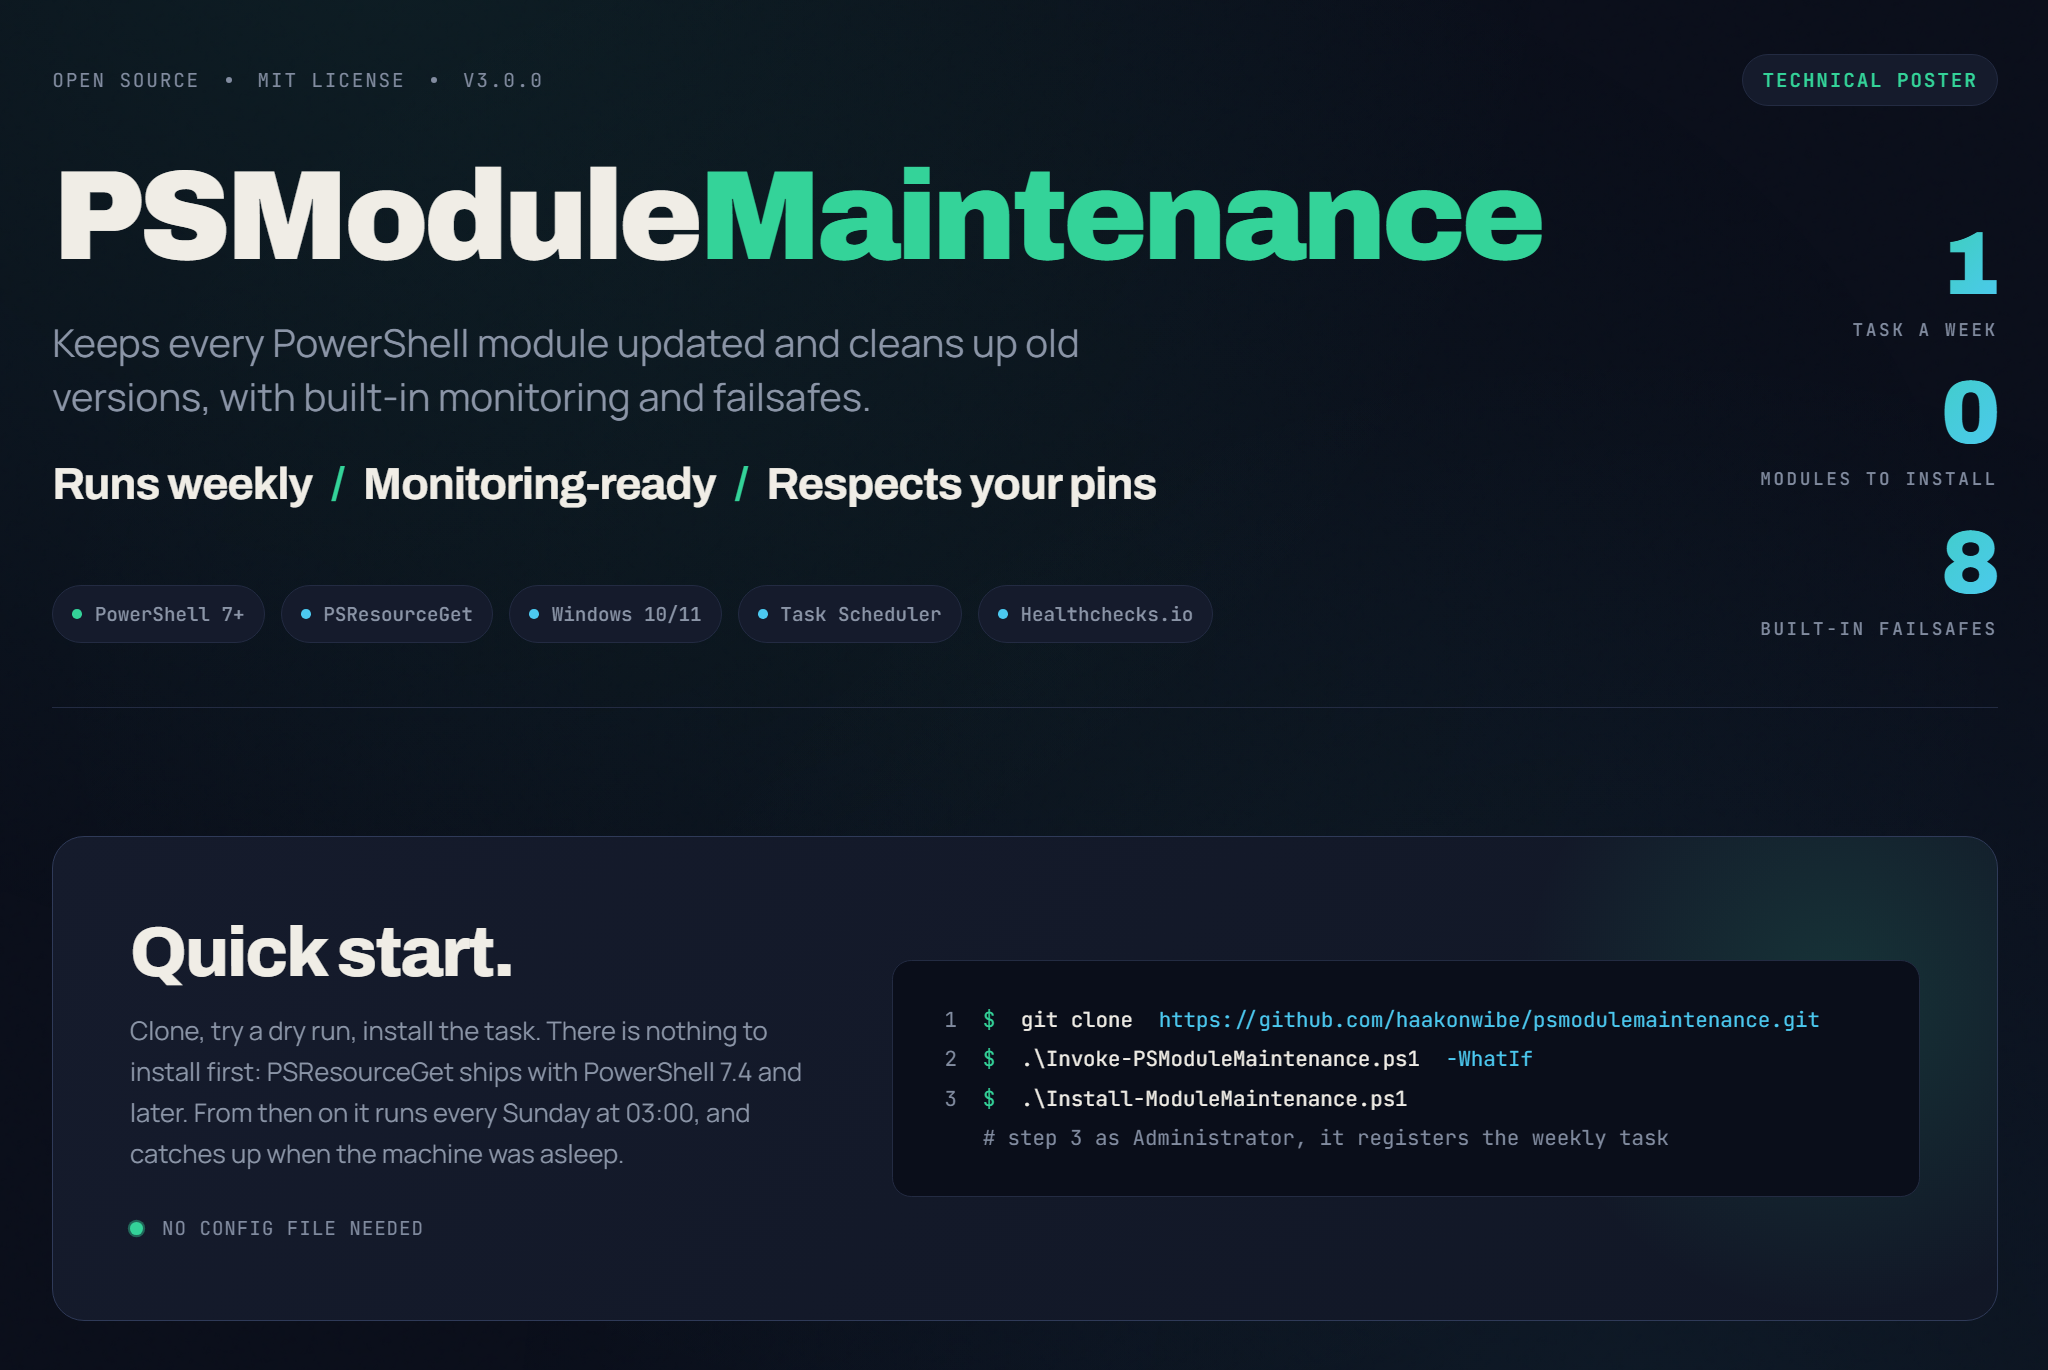
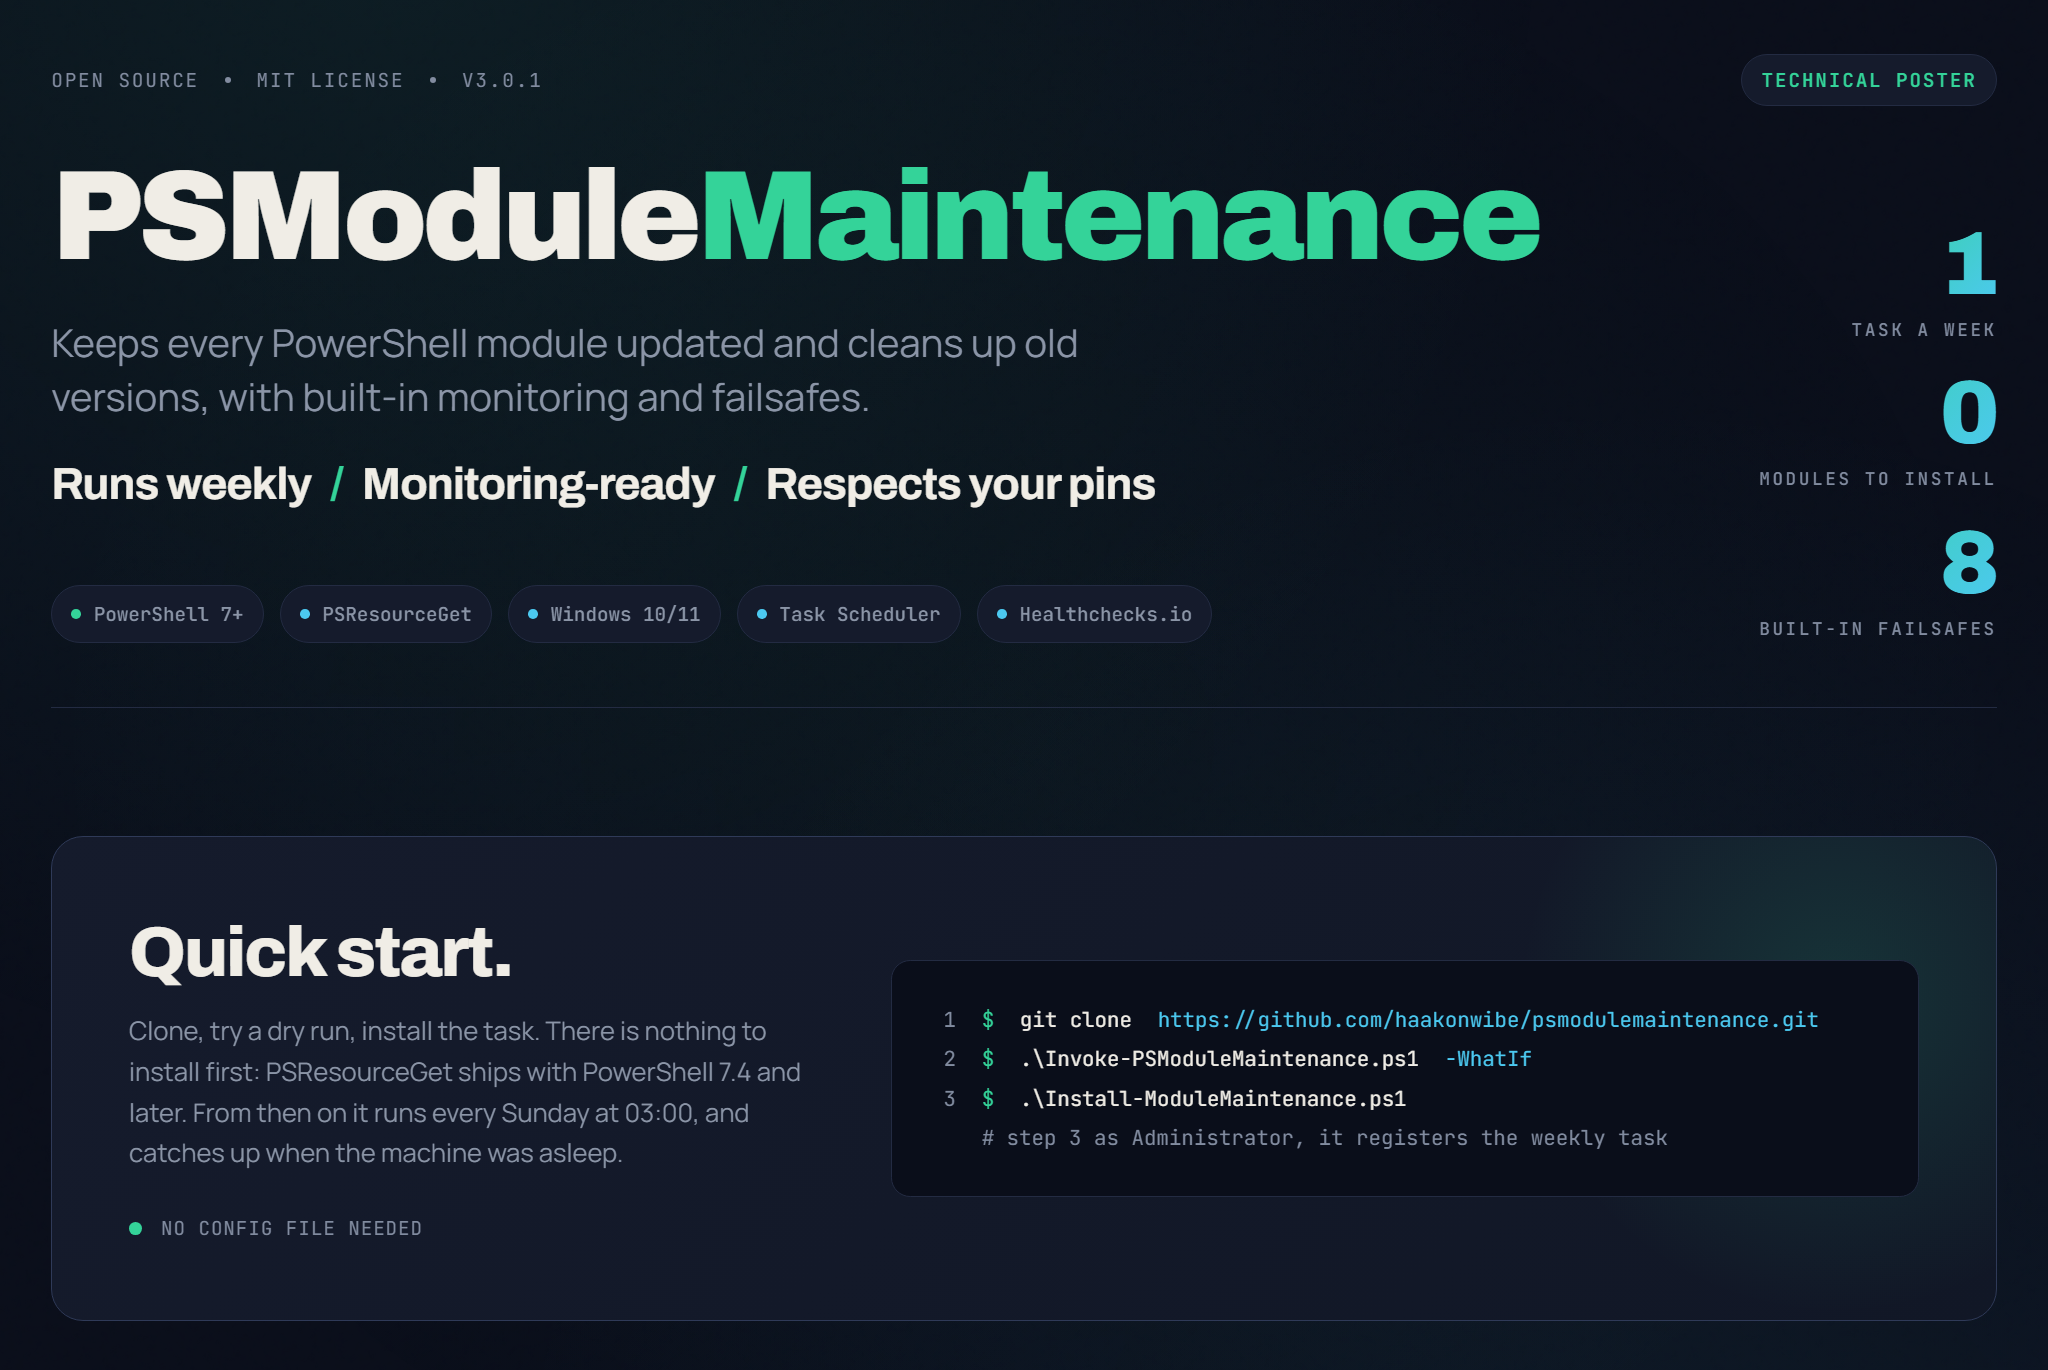
Bump the version to 3.0.1

diff --git a/site/index.html b/site/index.html
@@ -1020,7 +1020,7 @@ footer.footer {
       <span class="dot"></span>
       <span>MIT License</span>
       <span class="dot"></span>
-      <span>v3.0.0</span>
+      <span>v3.0.1</span>
       <span class="meta-tag">Technical Poster</span>
     </div>
 
@@ -1420,7 +1420,7 @@ footer.footer {
       Created by <strong>Haakon Wibe</strong> · Digital Workplace Architect
     </div>
 
-    <div class="footer-version">v3.0.0 · MIT</div>
+    <div class="footer-version">v3.0.1 · MIT</div>
   </footer>
 
 </div>
